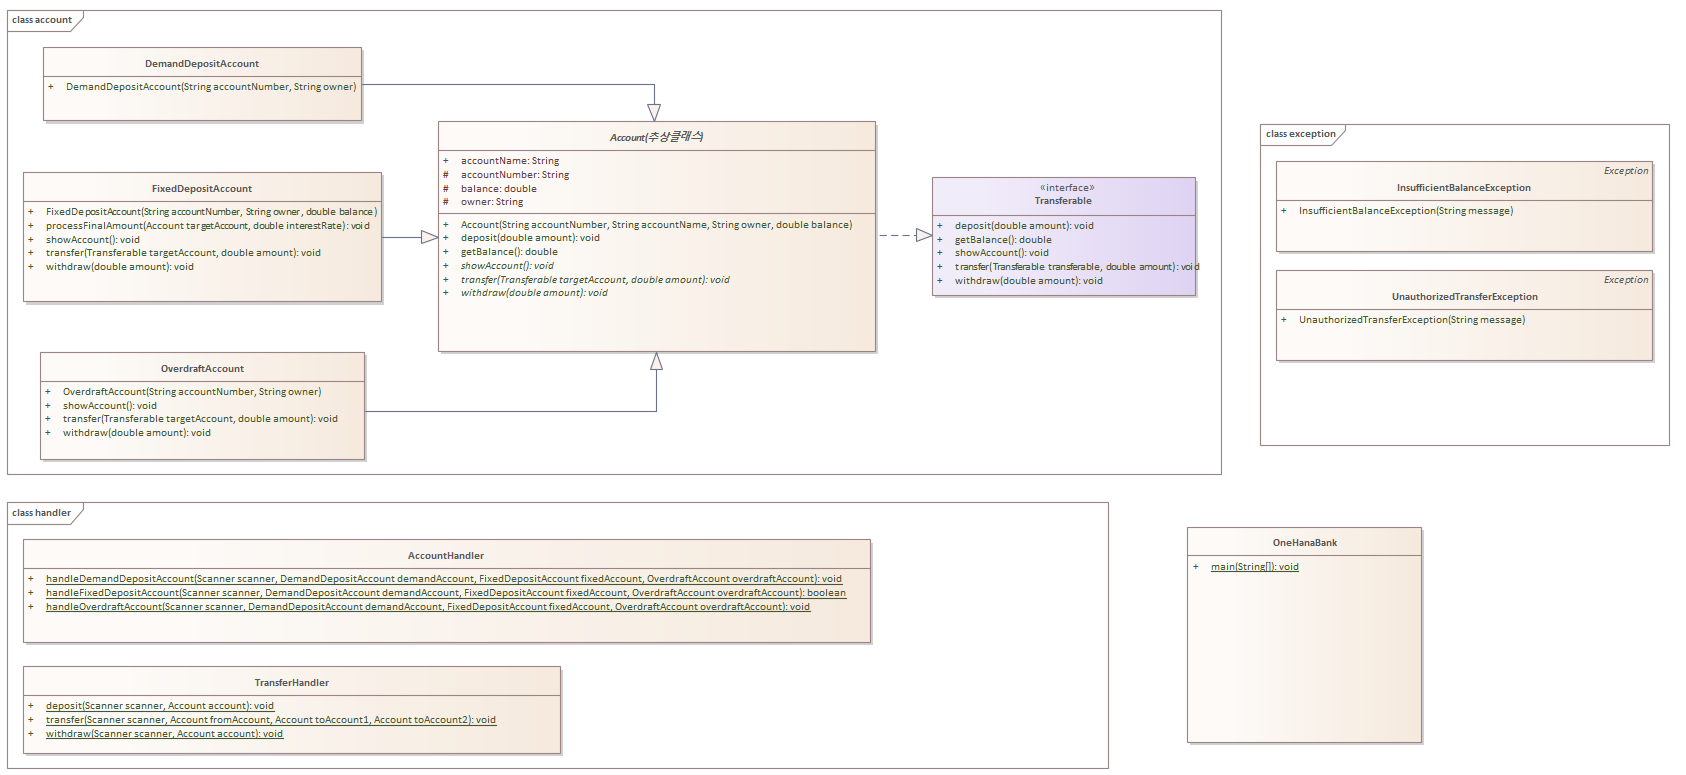
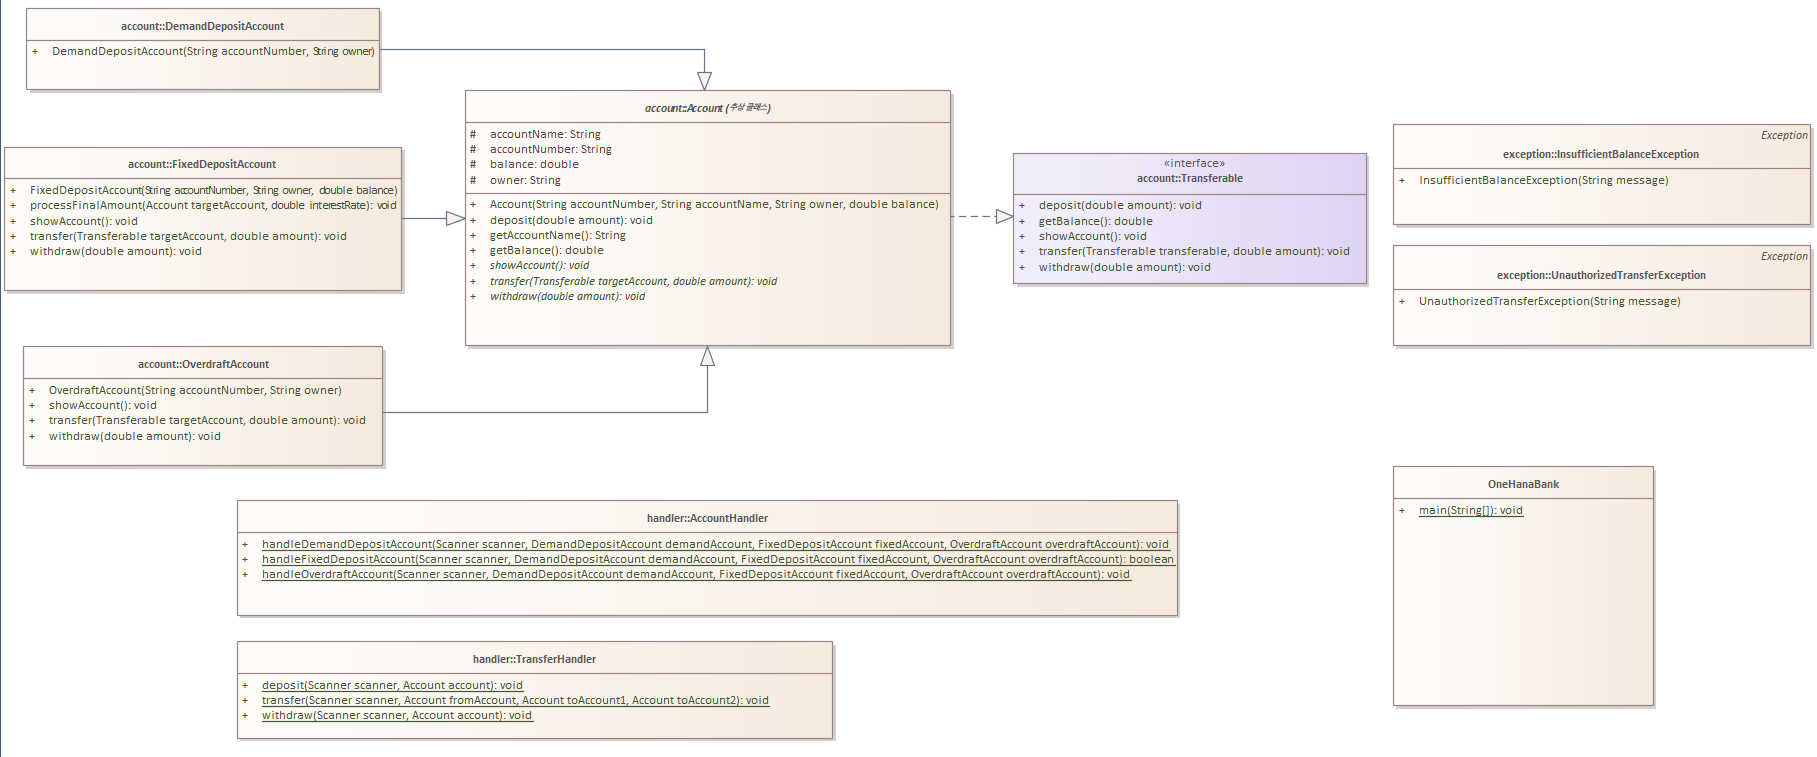
Minor fix

Changed region(s): [[0.0, 0.0, 1.0, 0.4861], [0.0, 0.4557, 0.6477, 1.0], [0.7094, 0.6077, 0.9253, 0.9723]]

diff --git a/src/problem3/handler/TransferHandler.java b/src/problem3/handler/TransferHandler.java
@@ -16,7 +16,7 @@ public class TransferHandler {
         if (depositAmount == 0) return;
         account.deposit(depositAmount);
         String depositAmountStr = String.format("%,d", Math.round(depositAmount));
-        System.out.printf("%s 통장에 %s원이 입금되었습니다!\n", account.accountName, depositAmountStr);
+        System.out.printf("%s 통장에 %s원이 입금되었습니다!\n", account.getAccountName(), depositAmountStr);
     }
 
     public static void withdraw(Scanner scanner, Account account) {
@@ -28,8 +28,8 @@ public class TransferHandler {
                 account.withdraw(withdrawAmount);
                 String withdrawAmountStr = String.format("%,d", Math.round(withdrawAmount));
                 String balanceAmountStr = String.format("%,d", Math.round(account.getBalance()));
-                System.out.printf("%s 통장에서 %s원이 출금되었습니다.\n", account.accountName, withdrawAmountStr);
-                System.out.printf("%s 통장의 잔액은 %s원입니다.\n", account.accountName, balanceAmountStr);
+                System.out.printf("%s 통장에서 %s원이 출금되었습니다.\n", account.getAccountName(), withdrawAmountStr);
+                System.out.printf("%s 통장의 잔액은 %s원입니다.\n", account.getAccountName(), balanceAmountStr);
                 break;
             } catch (InsufficientBalanceException | UnauthorizedTransferException e) {
                 String balanceStr = String.format("%,d", Math.round(account.getBalance()));
@@ -42,7 +42,7 @@ public class TransferHandler {
         Account toAccount;
         String transferPrompt;
 
-        int fromAccountType = fromAccount.accountName.equalsIgnoreCase("자유입출금") ? 1 : 3;
+        int fromAccountType = fromAccount.getAccountName().equalsIgnoreCase("자유입출금") ? 1 : 3;
         if (fromAccountType == 1) {
             System.out.print("어디로 보낼까요? (2: 정기예금, 3: 마이너스) ");
             int toAccountType = Integer.parseInt(scanner.nextLine());
@@ -84,8 +84,8 @@ public class TransferHandler {
                 fromAccount.transfer(toAccount, transferAmount);
                 String transferAmountStr = String.format("%,d", Math.round(transferAmount));
                 String balanceStr = String.format("%,d", Math.round(fromAccount.getBalance()));
-                System.out.printf("%s 통장에 %s원이 입금되었습니다.\n", toAccount.accountName, transferAmountStr);
-                System.out.printf("%s 통장의 잔액은 %s원 입니다.\n", fromAccount.accountName, balanceStr);
+                System.out.printf("%s 통장에 %s원이 입금되었습니다.\n", toAccount.getAccountName(), transferAmountStr);
+                System.out.printf("%s 통장의 잔액은 %s원 입니다.\n", fromAccount.getAccountName(), balanceStr);
                 break;
             } catch (InsufficientBalanceException e) {
                 String balanceStr = String.format("%,d", Math.round(fromAccount.getBalance()));

diff --git a/src/problem3/account/Account.java b/src/problem3/account/Account.java
@@ -5,7 +5,7 @@ import problem3.exception.UnauthorizedTransferException;
 
 public abstract class Account implements Transferable {
     protected String accountNumber;
-    public String accountName;
+    protected String accountName;
     protected String owner;
     protected double balance;
 
@@ -18,6 +18,10 @@ public abstract class Account implements Transferable {
 
     public double getBalance() {
         return balance;
+    }
+
+    public String getAccountName() {
+        return accountName;
     }
 
     public void deposit(double amount) {
